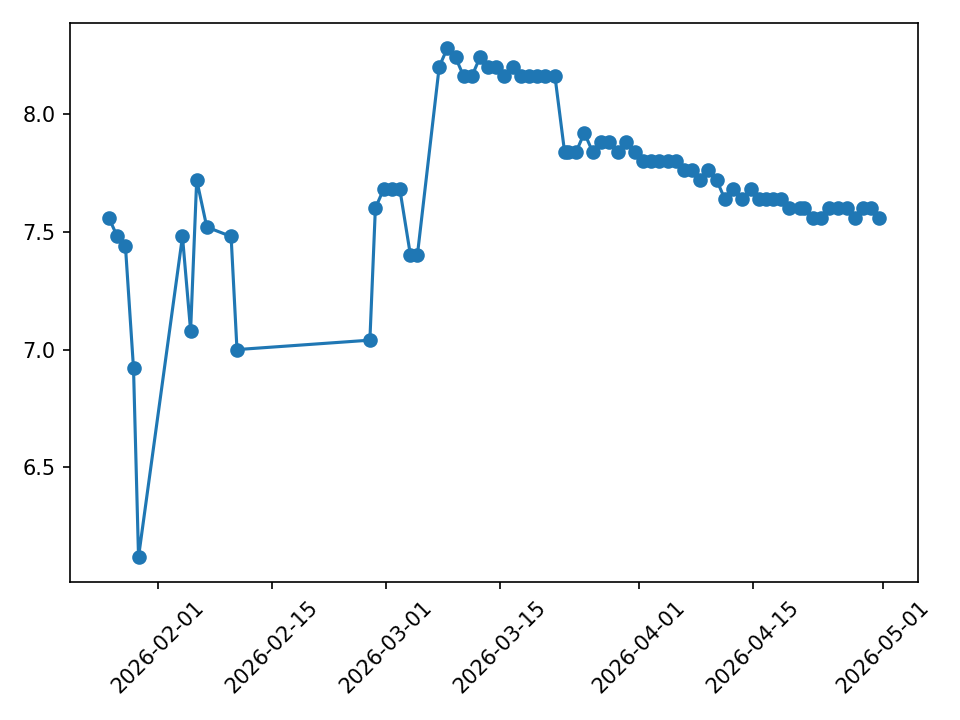
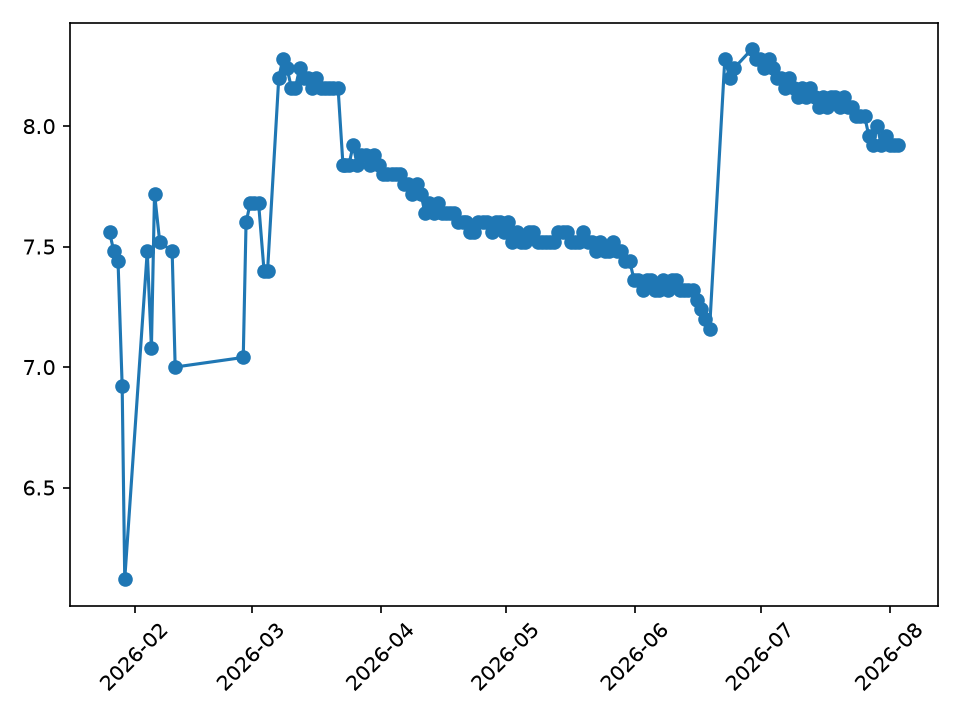
plot voltage update

diff --git a/Python/plotVoltage.py b/Python/plotVoltage.py
@@ -5,7 +5,6 @@ import matplotlib.pyplot as plt
 #df = pd.read_csv("log.log", sep=" ", header=None,
 #                 names=["date","time","file","voltage"])
 
-
 rows = []
 
 with open("log.log") as f:
@@ -55,4 +54,4 @@ daily["smooth"] = daily["voltage"].rolling(3).mean()
 plt.xticks(rotation=45)
 plt.tight_layout()
 #plt.show()
-plt.savefig("voltage.png", dpi=150)
+plt.savefig("voltagePlot.png", dpi=150)
